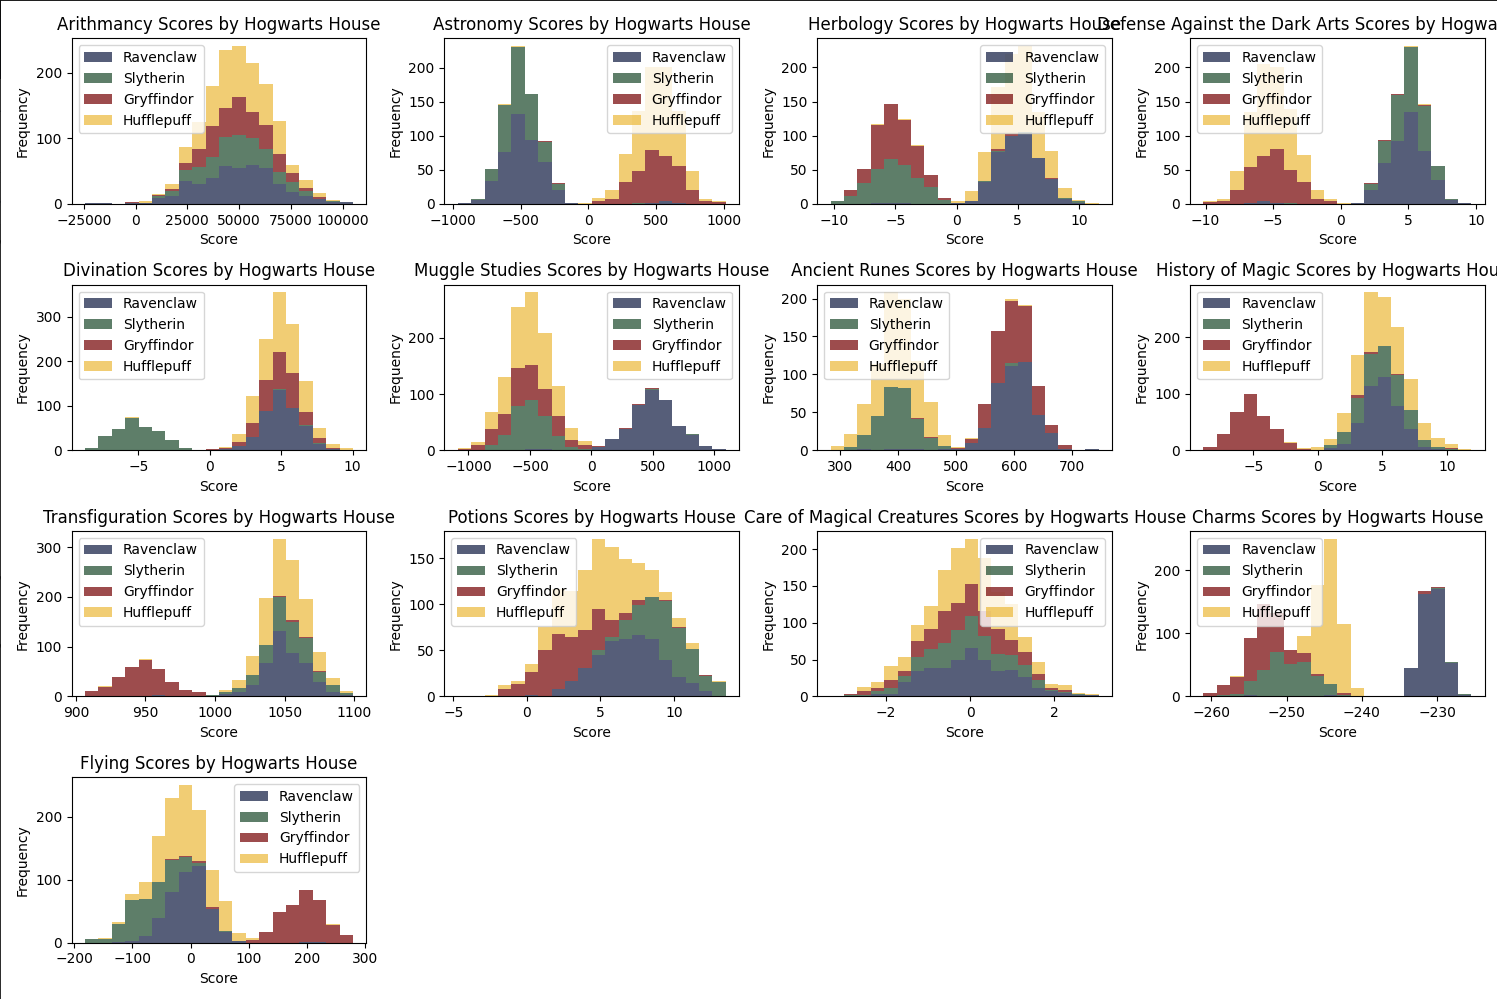
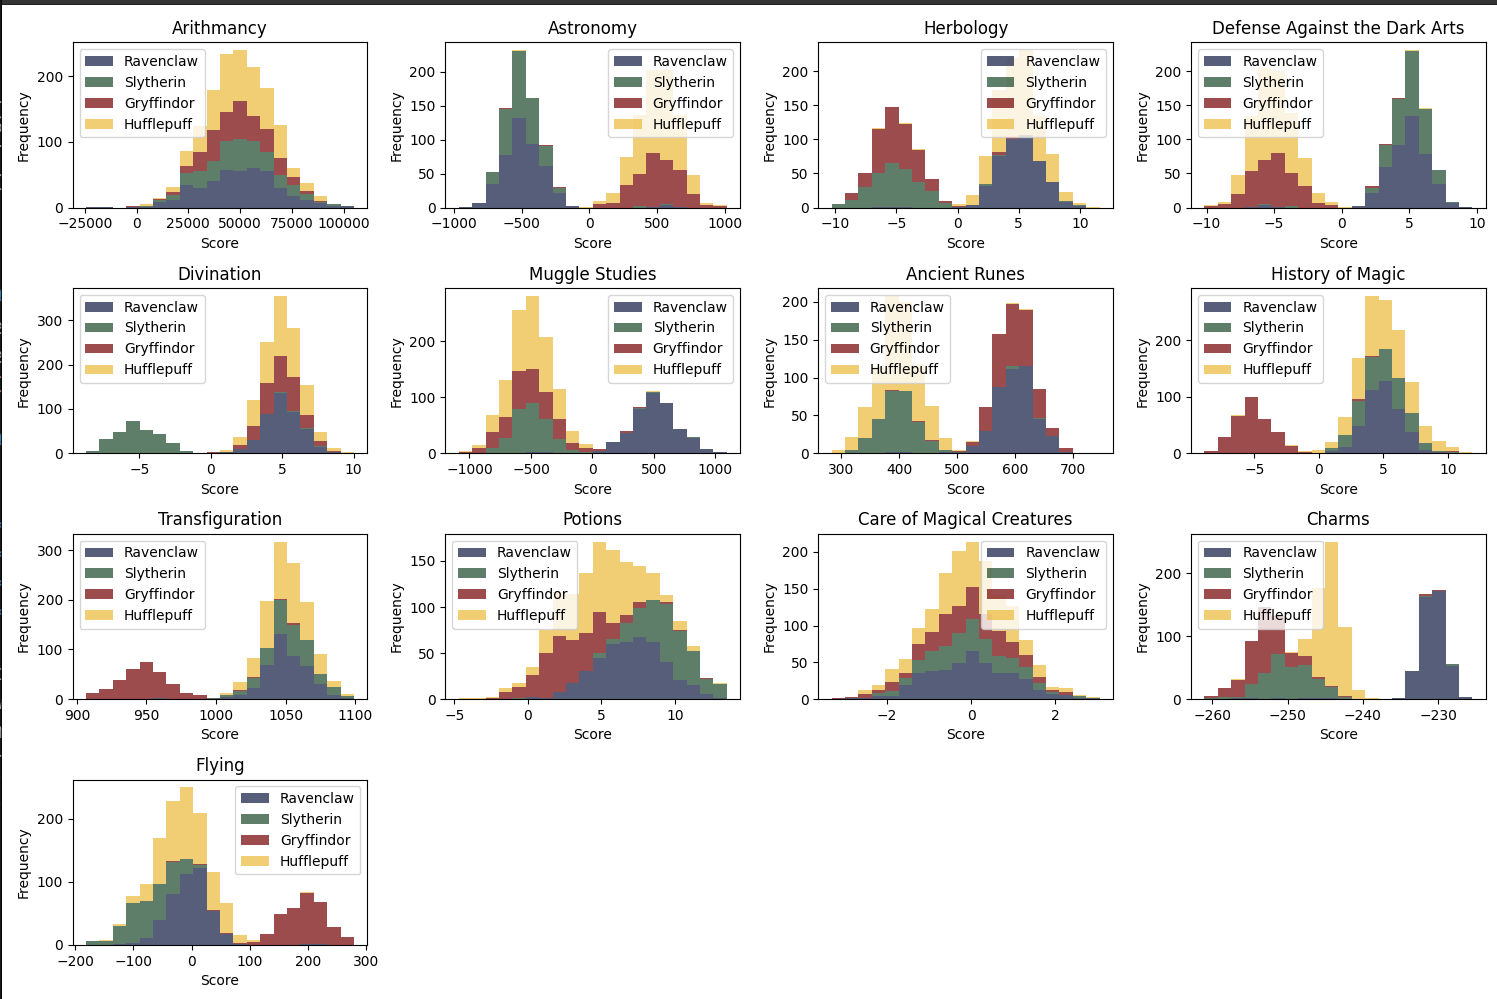
[DSLR] : different histograms screenshot

diff --git a/data_visualization/histogram.py b/data_visualization/histogram.py
@@ -29,7 +29,7 @@ for i, course in enumerate(courses, 1):
     data_list = [data[data["Hogwarts House"] == house][course].dropna() for house in data["Hogwarts House"].unique()]
     colors = [house_colors[house] for house in data["Hogwarts House"].unique()]
     plt.hist(data_list, bins=20, stacked=True, label=data["Hogwarts House"].unique(), color=colors, alpha=0.7)
-    plt.title(f'{course} Scores by Hogwarts House')
+    plt.title(f'{course}')
     plt.xlabel('Score')
     plt.ylabel('Frequency')
     plt.legend()

diff --git a/README.md b/README.md
@@ -58,5 +58,3 @@ To identify the most homogenous distribution score, we considered the following 
 - **Overlapping Areas**: More overlap indicates more similarity in distributions.
 
 After analyzing the plots, we observed that two courses, **Arithmancy** and **Care of Magical Creatures**, exhibit significant homogeneity. However, **Care of Magical Creatures** shows more homogeneity compared to **Arithmancy**. This is indicated by its narrow range, aligned peaks, and a high degree of overlap, suggesting that the score distributions are more similar across houses. In contrast, **Arithmancy** has a wider range and spread, along with some outliers, indicating less homogeneity.
-
-By examining these visualizations, we gain valuable insights into the distribution of scores across different houses, which helps in better understanding the data and refining our approach for the classification problem.
